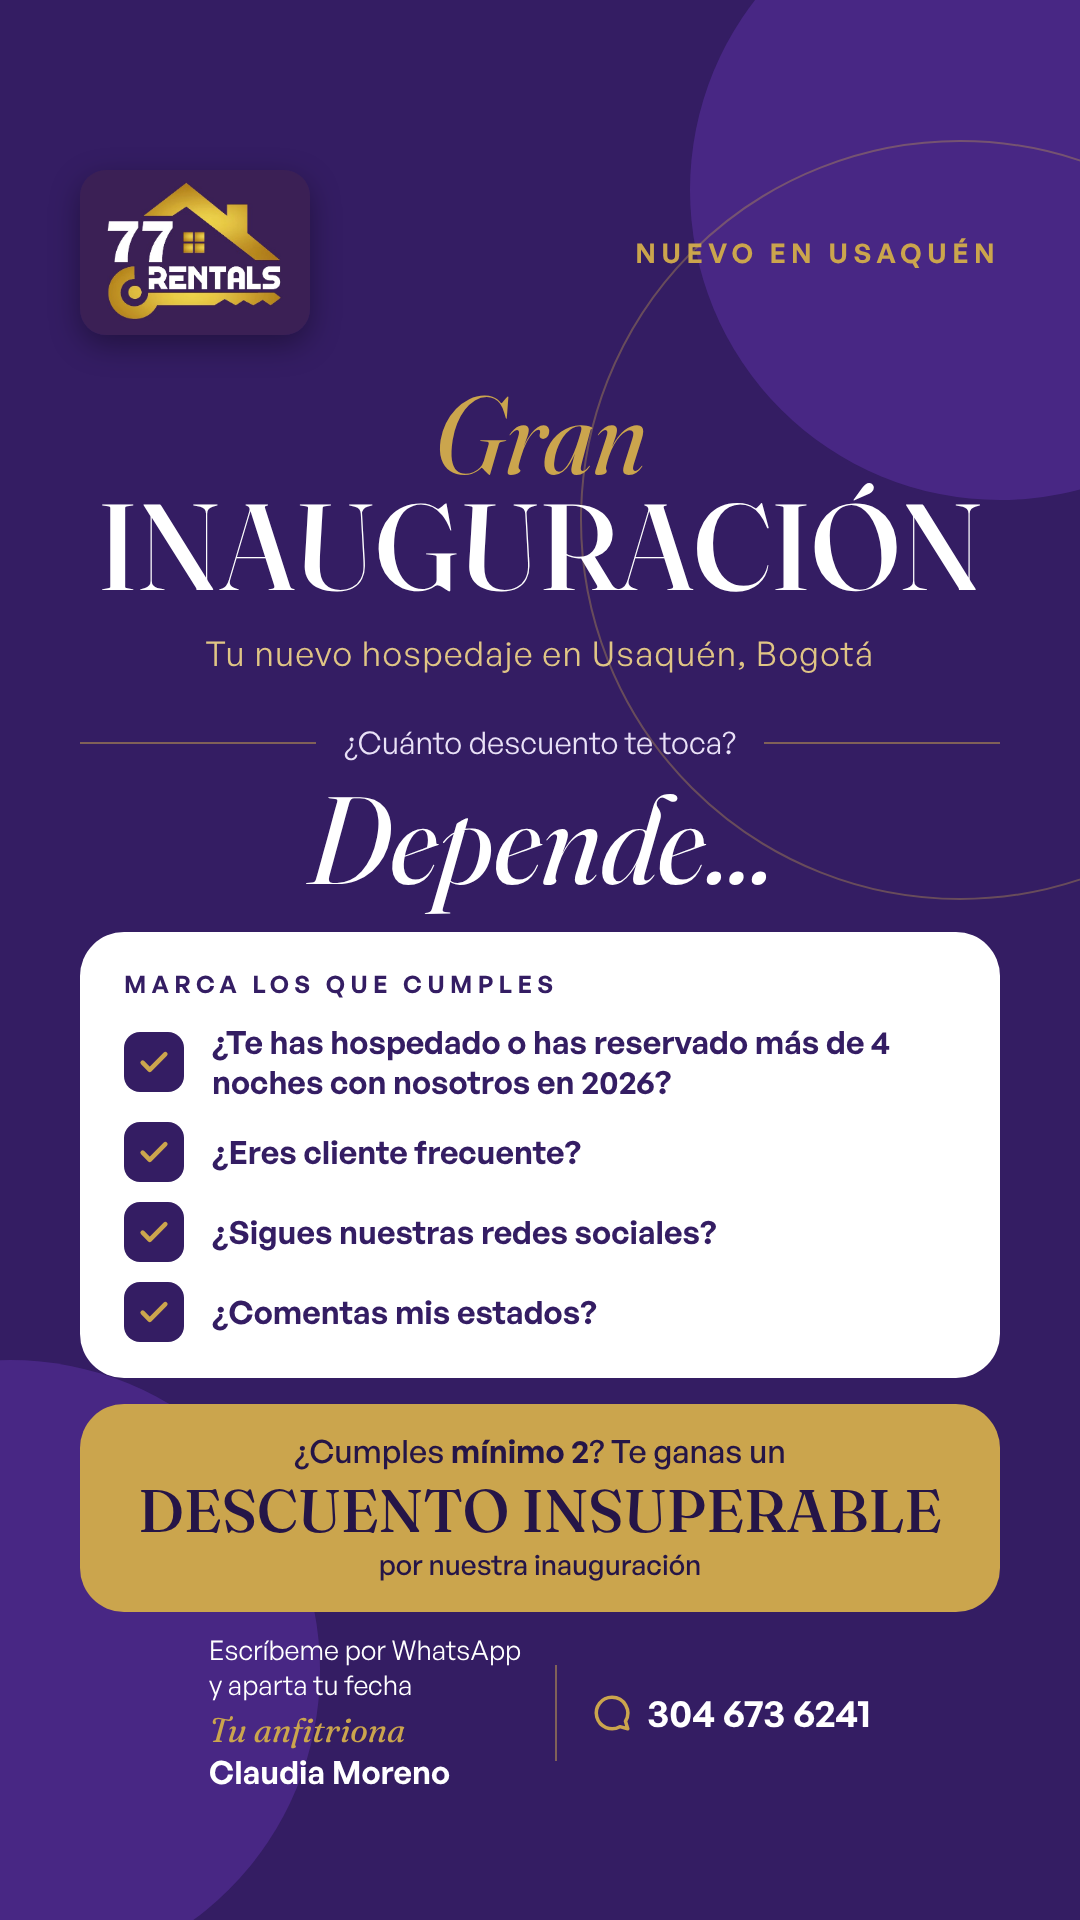
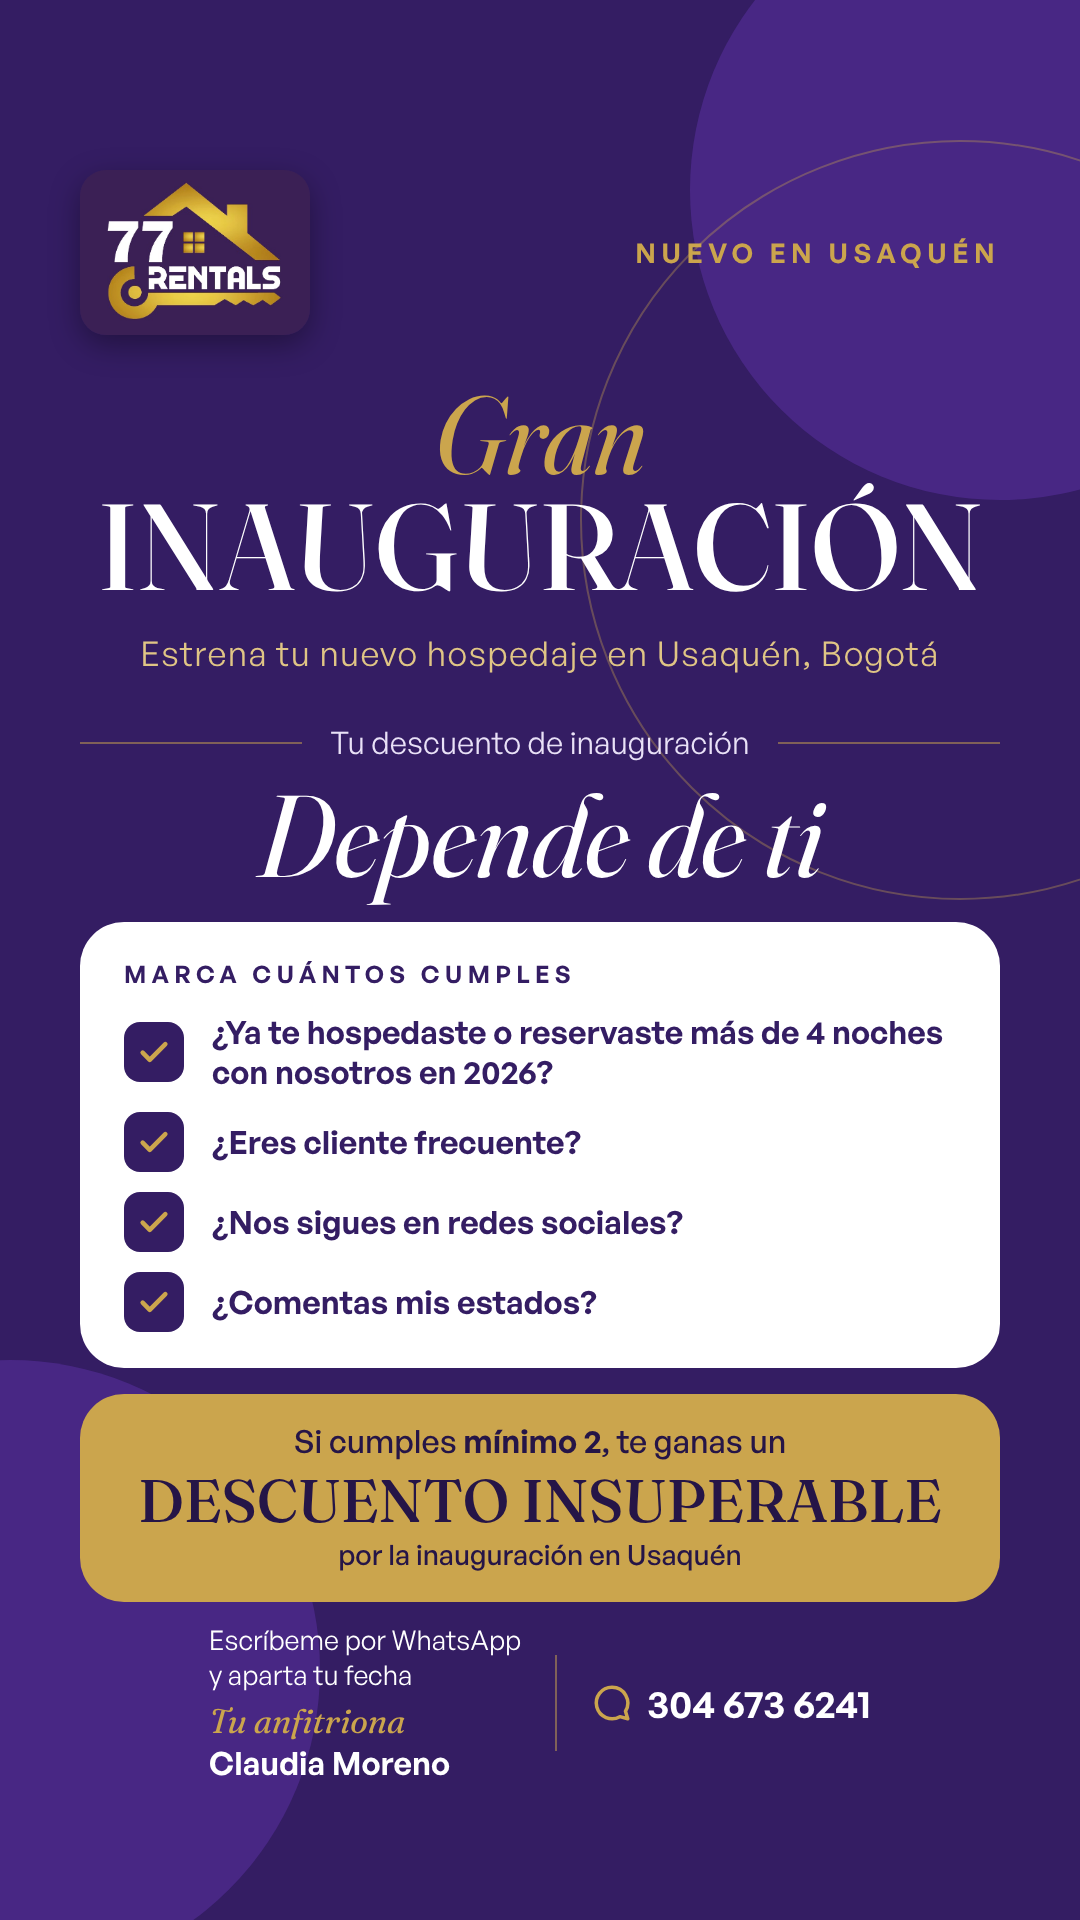
Rewrite inauguration poster copy
Claude-Session: https://claude.ai/code/session_01TDPBASWe9BWvKiUiFShirc

diff --git a/posters/inauguracion/inauguracion-usaquen.html b/posters/inauguracion/inauguracion-usaquen.html
@@ -24,7 +24,7 @@ body{background:#111}
 .sub{margin-top:24px;font-size:34px;letter-spacing:.04em;color:var(--gold-light)}
 .q{display:flex;align-items:center;gap:28px;font-size:31px;color:#e9e1f7;margin-top:46px}
 .q i{flex:1;height:2px;background:rgba(203,165,77,.5)}
-.dep{text-align:center;font-family:var(--font-heading);font-style:italic;font-size:124px;line-height:1.15;margin-top:6px}
+.dep{text-align:center;font-family:var(--font-heading);font-style:italic;font-size:116px;line-height:1.15;margin-top:6px}
 .card{background:#fff;color:var(--purple);border-radius:44px;padding:36px 44px;margin-top:20px}
 .card h4{font-size:24px;letter-spacing:.22em;font-weight:600;margin-bottom:22px}
 .row{display:flex;gap:28px;align-items:center;margin-bottom:20px;font-size:32px;font-weight:600;line-height:1.25}
@@ -47,16 +47,16 @@ body{background:#111}
 <div class="slide">
  <div class="c c1"></div><div class="c c2"></div><div class="ring"></div>
  <div class="top"><img class="logo" src="logo77.jpeg" alt="77Rentals"><div class="tag">Nuevo en Usaquén</div></div>
- <div class="hero"><div class="gran">Gran</div><div class="big">INAUGURACIÓN</div><div class="sub">Tu nuevo hospedaje en Usaquén, Bogotá</div></div>
- <div class="q"><i></i>¿Cuánto descuento te toca?<i></i></div>
- <div class="dep">Depende...</div>
- <div class="card"><h4>MARCA LOS QUE CUMPLES</h4>
-  <div class="row"><div class="ck"><svg viewBox="0 0 24 24" fill="none" stroke="#CBA54D" stroke-width="3.2" stroke-linecap="round" stroke-linejoin="round"><path d="M4 12.5l5 5L20 6.5"/></svg></div><div>¿Te has hospedado o has reservado más de 4 noches con nosotros en 2026?</div></div>
+ <div class="hero"><div class="gran">Gran</div><div class="big">INAUGURACIÓN</div><div class="sub">Estrena tu nuevo hospedaje en Usaquén, Bogotá</div></div>
+ <div class="q"><i></i>Tu descuento de inauguración<i></i></div>
+ <div class="dep">Depende de ti</div>
+ <div class="card"><h4>MARCA CUÁNTOS CUMPLES</h4>
+  <div class="row"><div class="ck"><svg viewBox="0 0 24 24" fill="none" stroke="#CBA54D" stroke-width="3.2" stroke-linecap="round" stroke-linejoin="round"><path d="M4 12.5l5 5L20 6.5"/></svg></div><div>¿Ya te hospedaste o reservaste más de 4 noches con nosotros en 2026?</div></div>
   <div class="row"><div class="ck"><svg viewBox="0 0 24 24" fill="none" stroke="#CBA54D" stroke-width="3.2" stroke-linecap="round" stroke-linejoin="round"><path d="M4 12.5l5 5L20 6.5"/></svg></div><div>¿Eres cliente frecuente?</div></div>
-  <div class="row"><div class="ck"><svg viewBox="0 0 24 24" fill="none" stroke="#CBA54D" stroke-width="3.2" stroke-linecap="round" stroke-linejoin="round"><path d="M4 12.5l5 5L20 6.5"/></svg></div><div>¿Sigues nuestras redes sociales?</div></div>
+  <div class="row"><div class="ck"><svg viewBox="0 0 24 24" fill="none" stroke="#CBA54D" stroke-width="3.2" stroke-linecap="round" stroke-linejoin="round"><path d="M4 12.5l5 5L20 6.5"/></svg></div><div>¿Nos sigues en redes sociales?</div></div>
   <div class="row"><div class="ck"><svg viewBox="0 0 24 24" fill="none" stroke="#CBA54D" stroke-width="3.2" stroke-linecap="round" stroke-linejoin="round"><path d="M4 12.5l5 5L20 6.5"/></svg></div><div>¿Comentas mis estados?</div></div>
  </div>
- <div class="gold"><p>¿Cumples <b>mínimo 2</b>? Te ganas un</p><h2>DESCUENTO INSUPERABLE</h2><small>por nuestra inauguración</small></div>
+ <div class="gold"><p>Si cumples <b>mínimo 2</b>, te ganas un</p><h2>DESCUENTO INSUPERABLE</h2><small>por la inauguración en Usaquén</small></div>
  <div class="foot"><div class="who">Escríbeme por WhatsApp<br>y aparta tu fecha<span style="margin-top:6px">Tu anfitriona</span><strong>Claudia Moreno</strong></div><div class="sep"></div>
   <div class="ph"><svg viewBox="0 0 24 24" fill="none" stroke="#CBA54D" stroke-width="2" stroke-linejoin="round"><path d="M12 3a9 9 0 1 0 4.5 16.8L21 21l-1.3-4.3A9 9 0 0 0 12 3z"/></svg>304 673 6241</div></div>
 </div>
